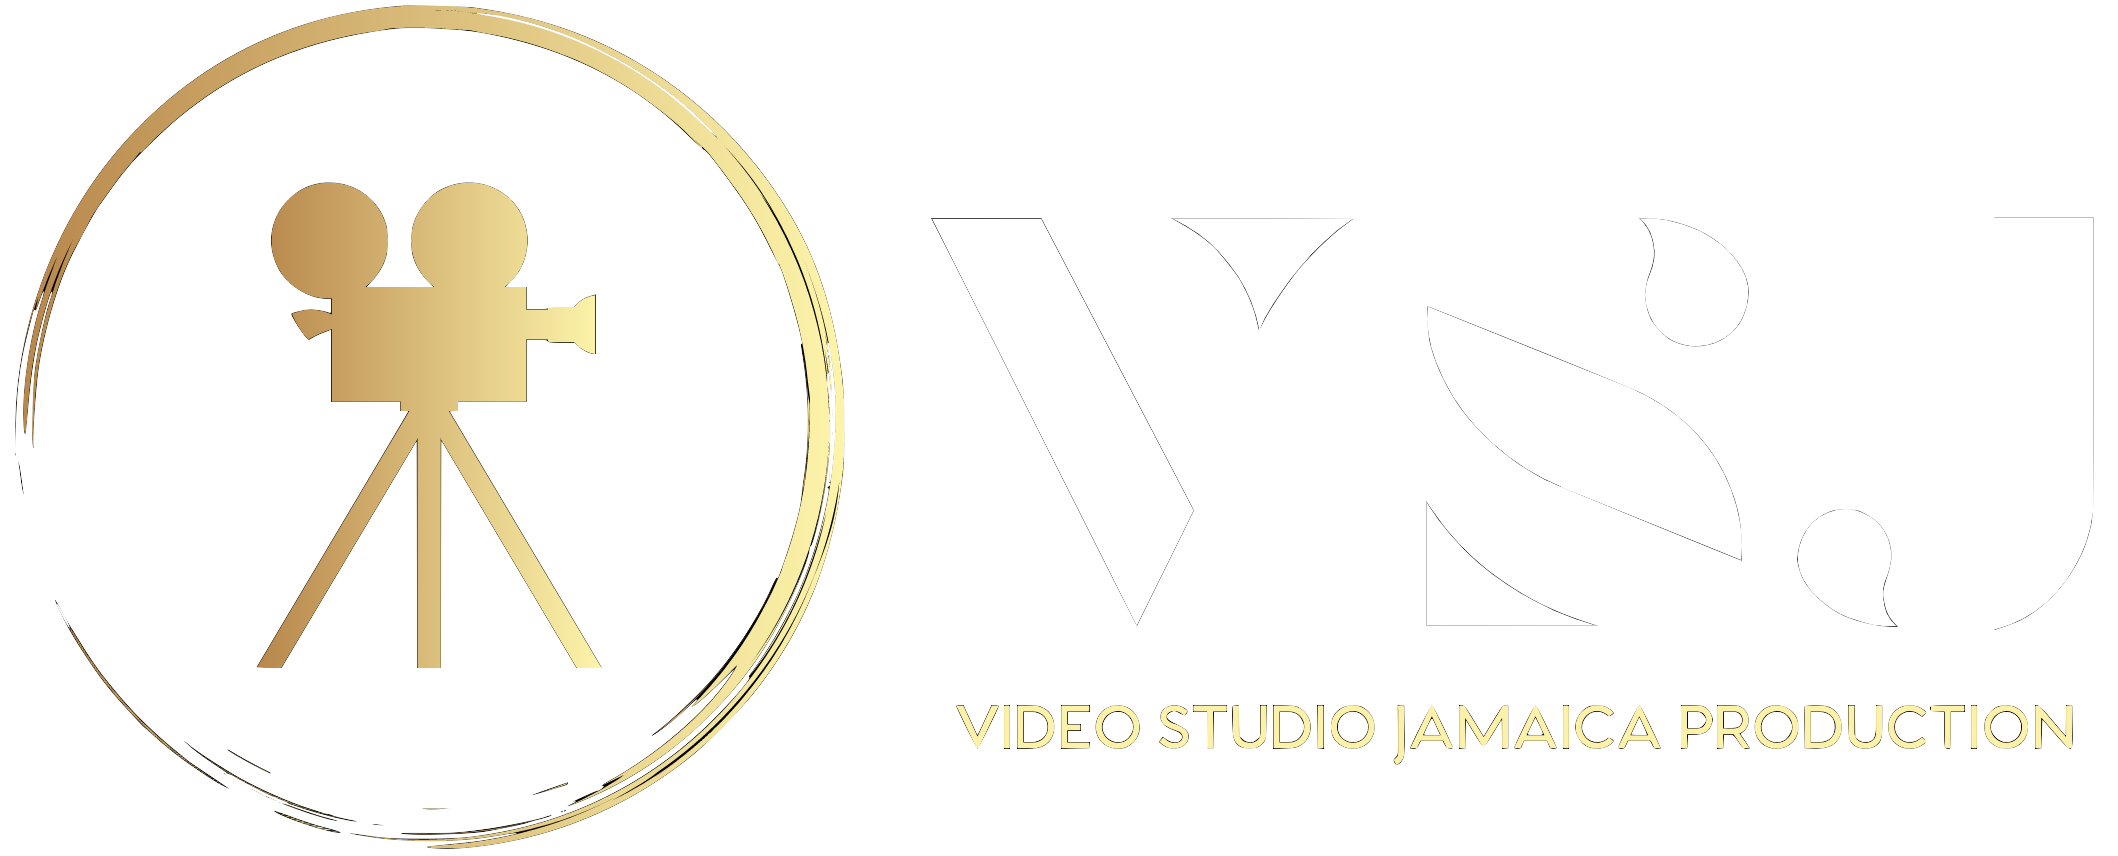
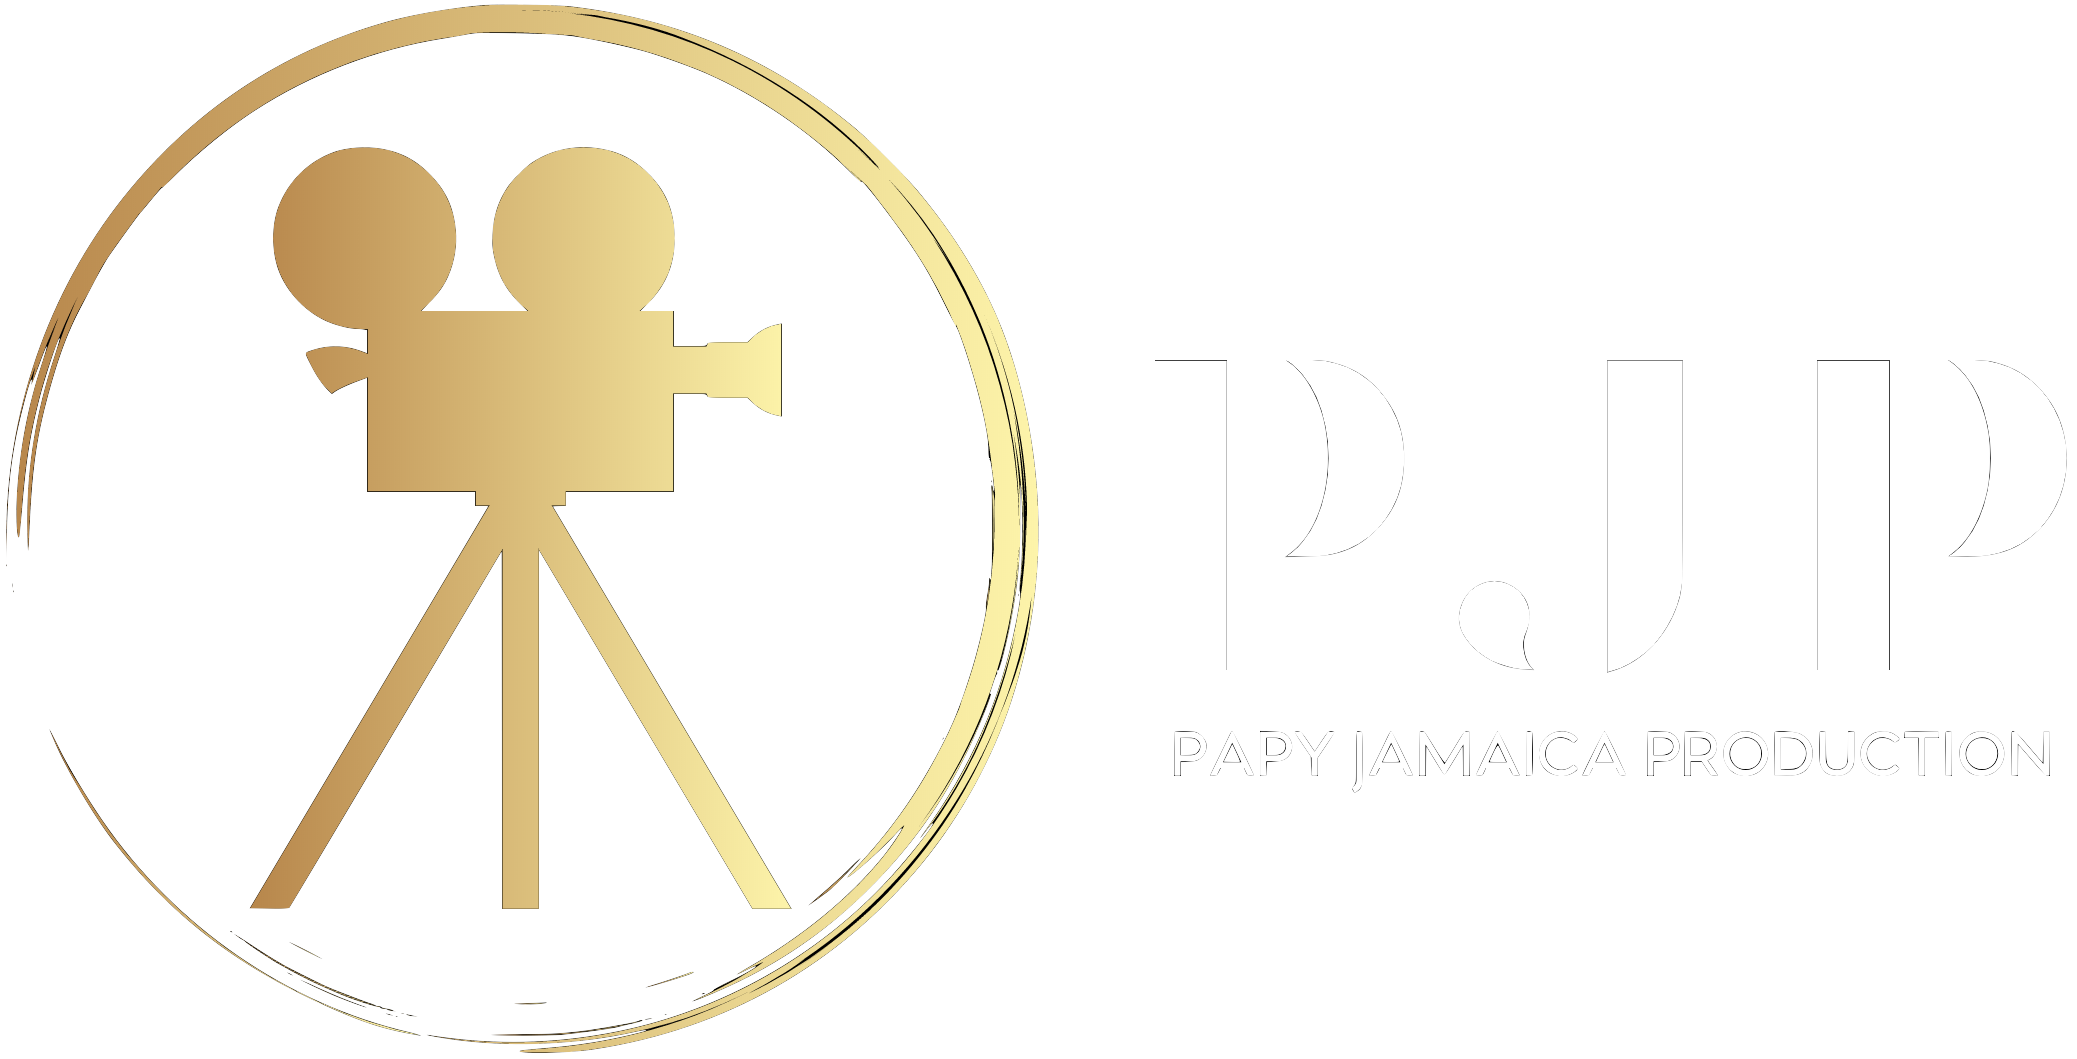
change of name from VSJ to PJP

diff --git a/index.html b/index.html
@@ -6,9 +6,9 @@ author: Semasuka Stern
 <html lang="en">
 
 <head>
-  <title>VSJ | Video Studio Jamaica Production</title>
+  <title>PJP | Papy Jamaica Production</title>
   <meta charset="UTF-8">
-  <meta name="description" content="Video Studio Jamaica Production | Best video quality in Burundi">
+  <meta name="description" content="Best video quality in Bujumbura Burundi">
   <meta name="keywords" content="HTML,CSS,XML,JavaScript">
   <meta http-equiv="X-UA-Compatible" content="ie=edge">
   <meta name="viewport" content="width=device-width, initial-scale=1.0">
@@ -300,7 +300,7 @@ author: Semasuka Stern
       <p>Copyright &copy; <script>
           var d = new Date()
           document.write(d.getFullYear())
-        </script> by VSJ. All rights reserved.</p>
+        </script> by PJP. All rights reserved.</p>
     </div>
     <div class="row">
       <p>This website was built with<span style="color: #e25555;"> ♥ </span> by <a href="https://semasuka.github.io/blog/about/"

diff --git a/resources/css/main.css b/resources/css/main.css
@@ -578,6 +578,18 @@ li.video:hover:before {
 #olympic {
     width: 80%;
 }
+#miss-burundi {
+    width: 75%;
+}
+#unhcr {
+    width: 60%;
+}
+#unicef{
+    width: 65%;
+}
+#rtnb{
+    width: 50%;
+}
 /*---------------pricing section---------------*/
 .section-pricing {
     background-color: #f1f1f1;
